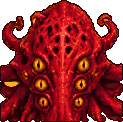
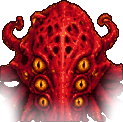
Version 1.7.1: kraken head fades into the water at its bottom edge and corners
Claude-Session: https://claude.ai/code/session_01SvcyuYTye99CAhYpcyC9zX

Changed region(s): [[0.0, 0.541, 1.0, 1.0]]

diff --git a/index.html b/index.html
@@ -443,7 +443,7 @@ img.px.ship-img.big { height: 52px; }
 const TOF = (() => {
   'use strict';
 
-  const GAME_VERSION = '1.7.0';
+  const GAME_VERSION = '1.7.1';
   const SAVE_VERSION = 6;
   const SAVE_KEY = 'tidesOfFortune.save';
   const BACKUP_KEY = 'tidesOfFortune.save.backup';
@@ -5847,7 +5847,7 @@ const Art = (() => {
   // drawn eyes, and the floating carcass.
   const KRAK = (() => {
     const SRC = {
[5 lines of base64/hex data omitted]
@@ -5931,7 +5931,7 @@ const Art = (() => {
             if (sx < 0 || sy < 0 || sx >= HD.W || sy >= HD.H) continue;
             if (side < 0 ? sx >= cx : sx < cx) continue;
             const i = (sy * HD.W + sx) * 4; if (!base.d[i + 3]) continue;
-            const j = (y * HD.W + x) * 4; p.d[j] = base.d[i]; p.d[j + 1] = base.d[i + 1]; p.d[j + 2] = base.d[i + 2]; p.d[j + 3] = 255;
+            const j = (y * HD.W + x) * 4; p.d[j] = base.d[i]; p.d[j + 1] = base.d[i + 1]; p.d[j + 2] = base.d[i + 2]; p.d[j + 3] = base.d[i + 3];
           }
         }
         if (k > 0.05) for (const side of [-1, 1]) { // two rows of teeth along each cut edge, longest mid-way up
@@ -6022,7 +6022,7 @@ const Art = (() => {
       for (let y = 0; y < DH; y++) for (let x = 0; x < DW; x++) {
         const dx = x + 0.5 - dcx, dy = (y + 0.5 - dcy) / 0.62, sx = Math.floor(cxh + c * dx + sn * dy), sy = Math.floor(cyh - sn * dx + c * dy);
         if (sx < 0 || sy < 0 || sx >= base.w || sy >= base.h) continue; const i = (sy * base.w + sx) * 4; if (!dbase.d[i + 3]) continue;
-        const j = (y * DW + x) * 4; dead.d[j] = dbase.d[i] * 0.72; dead.d[j + 1] = dbase.d[i + 1] * 0.66; dead.d[j + 2] = dbase.d[i + 2] * 0.74; dead.d[j + 3] = 255;
+        const j = (y * DW + x) * 4; dead.d[j] = dbase.d[i] * 0.72; dead.d[j + 1] = dbase.d[i + 1] * 0.66; dead.d[j + 2] = dbase.d[i + 2] * 0.74; dead.d[j + 3] = dbase.d[i + 3];
       }
       built = { HD: { ...HD, W: HD.W * KS, H: HD.H * KS, cx: HD.cx * KS, wl: HD.wl * KS }, KS, NE: 6, foamFor, ringFor, frames, SPLIT, eyeSpr,
         sil: sprUp(sil, HD.cx, HD.wl), dead: sprUp(dead, dcx, dcy + 7, { eyes: [] }), tentacle, grabFrames };

diff --git a/sw.js b/sw.js
@@ -1,6 +1,6 @@
 // Service worker: keeps Tides of Fortune on the phone so it plays offline.
 // The version below changes with every build, which is how phones learn an update exists.
-const CACHE = 'tof-1.7.0-da6a30ba';
+const CACHE = 'tof-1.7.1-339e10ae';
 const CORE = ['./', './index.html', './manifest.webmanifest', './icon-180.png', './icon-192.png', './icon-512.png', './icon-maskable-512.png'];
 
 self.addEventListener('install', e => {

diff --git a/art/kraken/src/head_fade.py b/art/kraken/src/head_fade.py
@@ -1,0 +1,27 @@
+# Fade the head sprite's bottom corners: fully transparent at each corner, ramping smoothly to full
+# opacity by the edge of the head itself (an ellipse around each corner, wider than it is tall-limited).
+from PIL import Image
+import numpy as np, sys
+src = Image.open('head.png').convert('RGBA'); a = np.array(src).astype(float)
+H, W = a.shape[:2]; RX, RY = float(sys.argv[1]) if len(sys.argv) > 1 else 34, float(sys.argv[2]) if len(sys.argv) > 2 else 64
+yy, xx = np.mgrid[0:H, 0:W] + 0.5
+k = np.ones((H, W))
+for cx in (0, W):
+    e = np.sqrt(((xx - cx) / RX) ** 2 + ((yy - H) / RY) ** 2)
+    t = np.clip((e - 0.25) / 0.75, 0, 1); k = np.minimum(k, t * t * (3 - 2 * t))
+# a weaker fade along the whole bottom edge: 45% opaque on the last row, solid 20 px up
+BH, B0 = float(sys.argv[3]) if len(sys.argv) > 3 else 20, float(sys.argv[4]) if len(sys.argv) > 4 else 0.45
+t = np.clip((H - yy) / BH, 0, 1); k = np.minimum(k, B0 + (1 - B0) * t * t * (3 - 2 * t))
+a[..., 3] = a[..., 3] * k
+# the yellow patch on the left side (a stray highlight on the arm root) is removed: its bright pixels go clear
+r, g, b = a[..., 0], a[..., 1], a[..., 2]
+patch = (xx < 22) & (yy > 78) & (yy < 90) & (r > 180) & (g > 110) & (b < 110)
+# and its warm orange rim (anything orange within 2 px of it)
+near = patch.copy()
+for _ in range(2): near = near | np.roll(near, 1, 0) | np.roll(near, -1, 0) | np.roll(near, 1, 1) | np.roll(near, -1, 1)
+rim = near & ~patch & (g > 30) & (g > r * 0.2) & (b < 90)
+patch = patch | rim
+a[..., 3][patch] = 0
+print('patch pixels cleared', int(patch.sum()))
+out = Image.fromarray(a.round().astype(np.uint8), 'RGBA'); out.save('head_faded.png')
+print('done', RX, RY)

diff --git a/README.md b/README.md
@@ -1,6 +1,6 @@
 # Tides of Fortune: home-screen app
 
-**Version 1.7.0.** These files are the whole game. Put them on GitHub Pages and anyone can open it in a browser, add it to their home screen, and play it offline.
+**Version 1.7.1.** These files are the whole game. Put them on GitHub Pages and anyone can open it in a browser, add it to their home screen, and play it offline.
 
 ## What's in this folder
 
